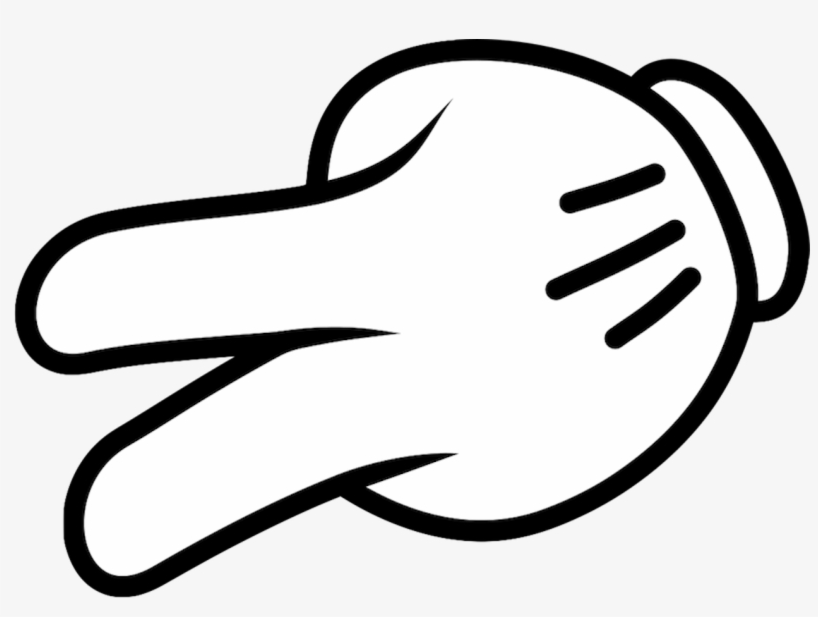
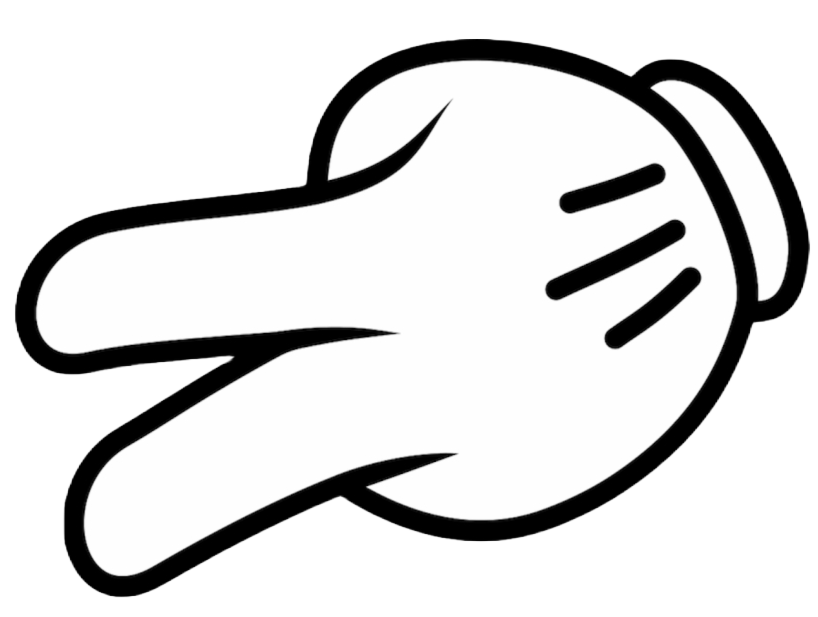
Made background of selection images transparent and updated README.md

diff --git a/styles.css b/styles.css
@@ -25,7 +25,6 @@ body {
 
 .title {
     margin-top: 24px;
-    /* margin-bottom: 72px; */
 }
 
 .container {
@@ -47,10 +46,10 @@ body {
     justify-content: space-between;
 }
 
-/* .buttons {
-    /* display: flex;
-    justify-content: space-around; 
-} */
+.outcome {
+    display: flex;
+    align-items: center;
+}
 
 /* Button Style */
 .btn {

diff --git a/README.md b/README.md
@@ -1,2 +1,4 @@
 # rock-paper-scissors
-Rock Paper Scissors game against the computer
+Rock Paper Scissors game against the computer.
+
+The game was made using fundamental HTML and CSS concepts along with JavaScript functions and DOM Manipulation and Events.
